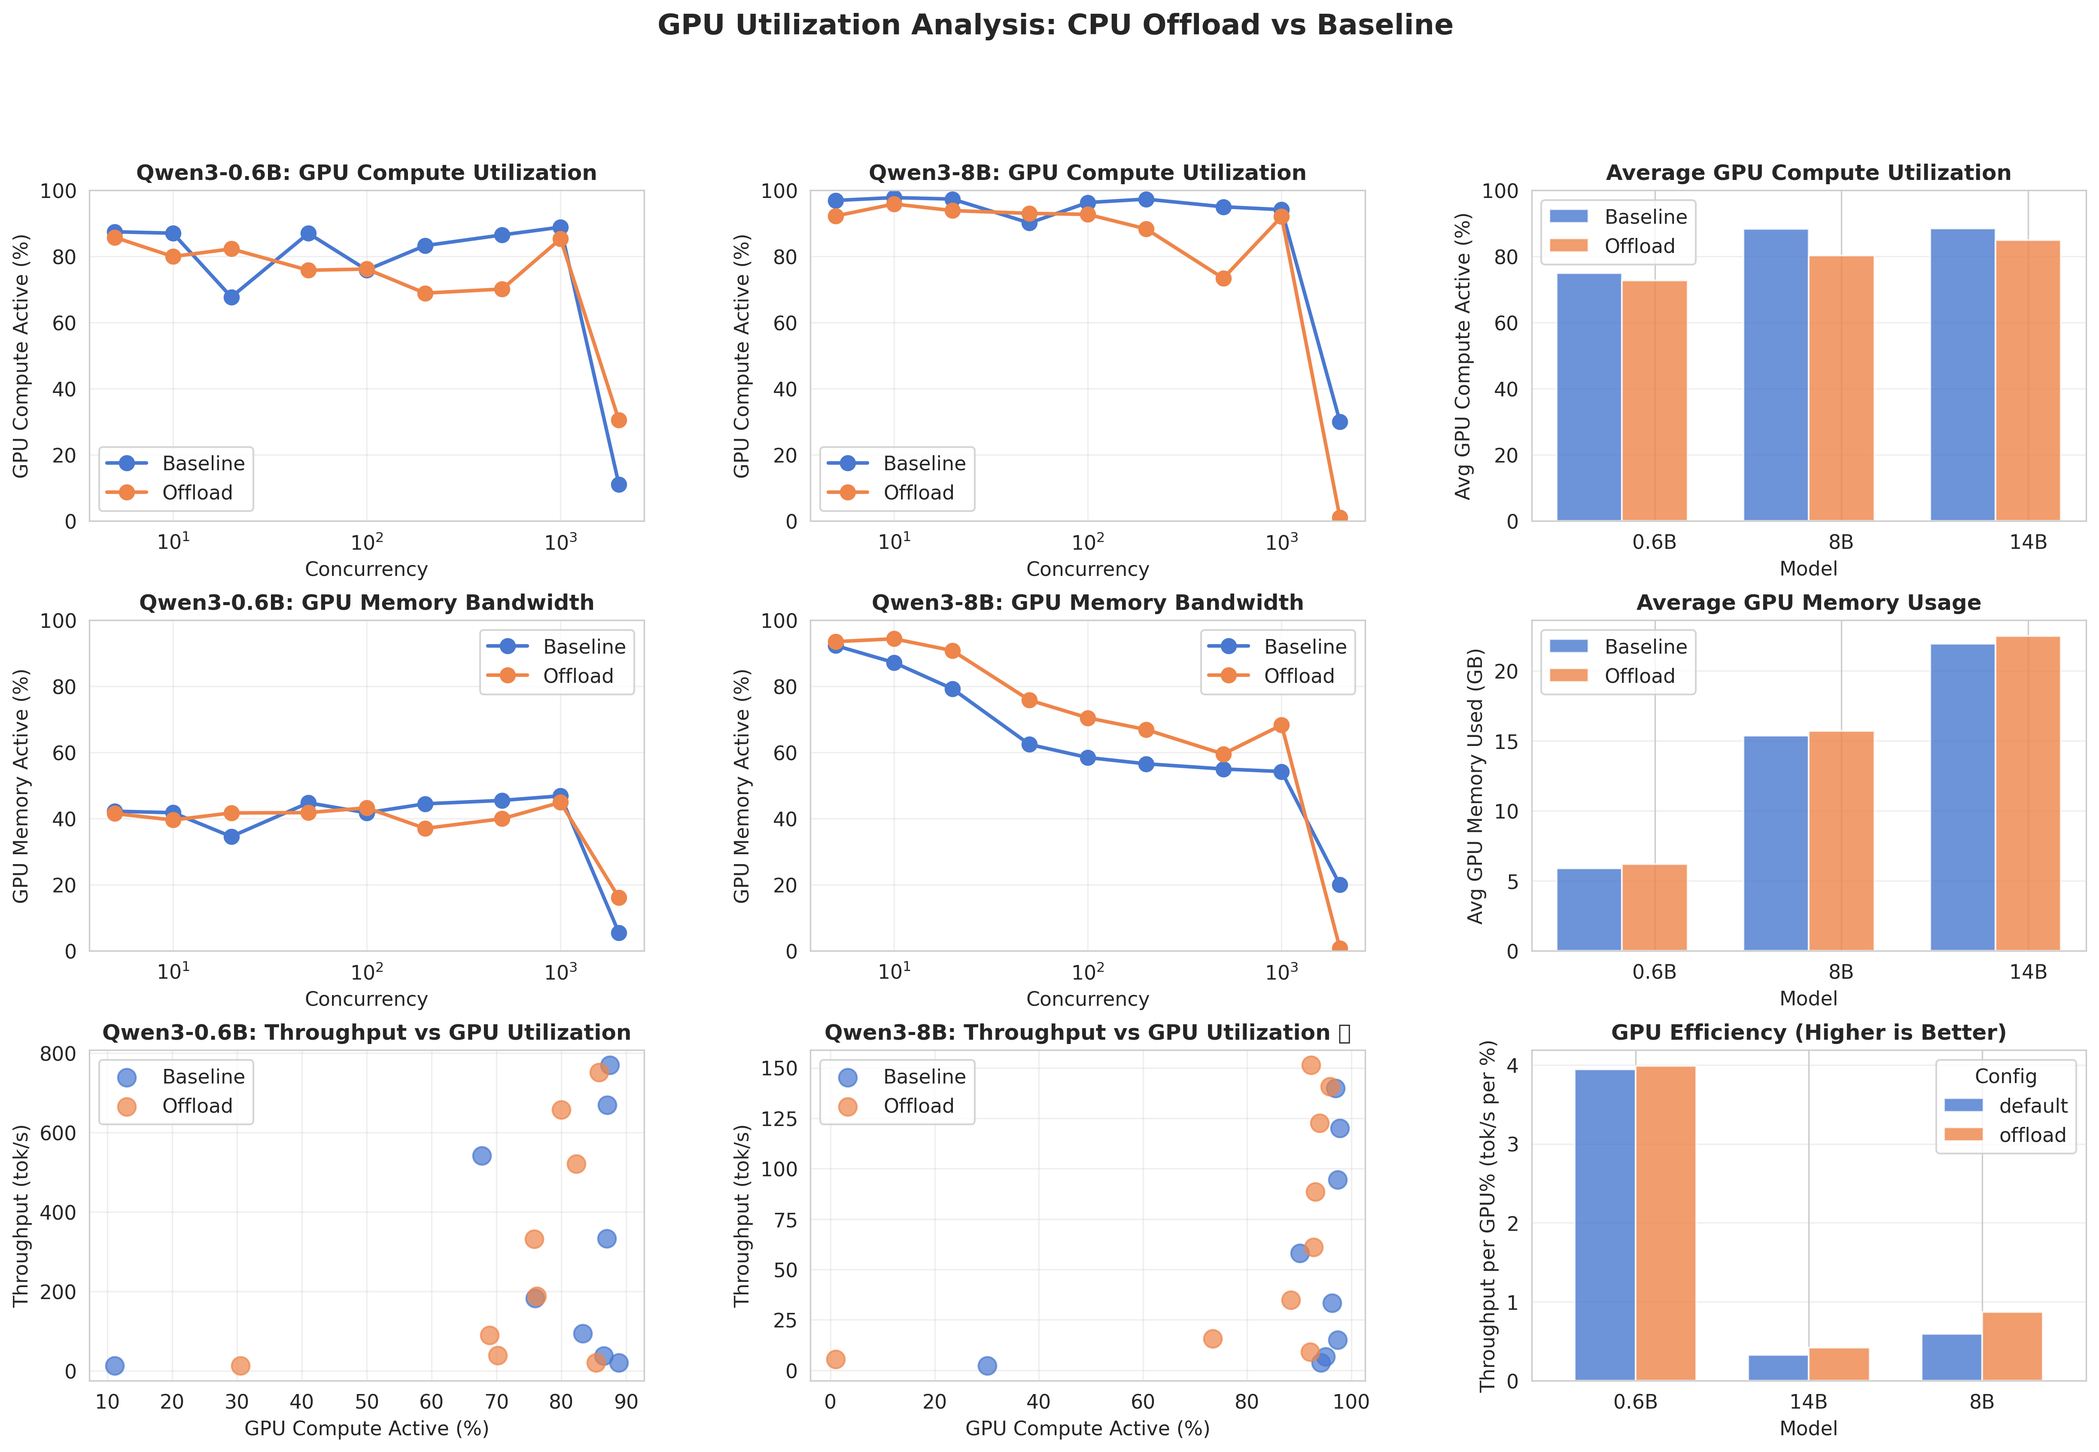
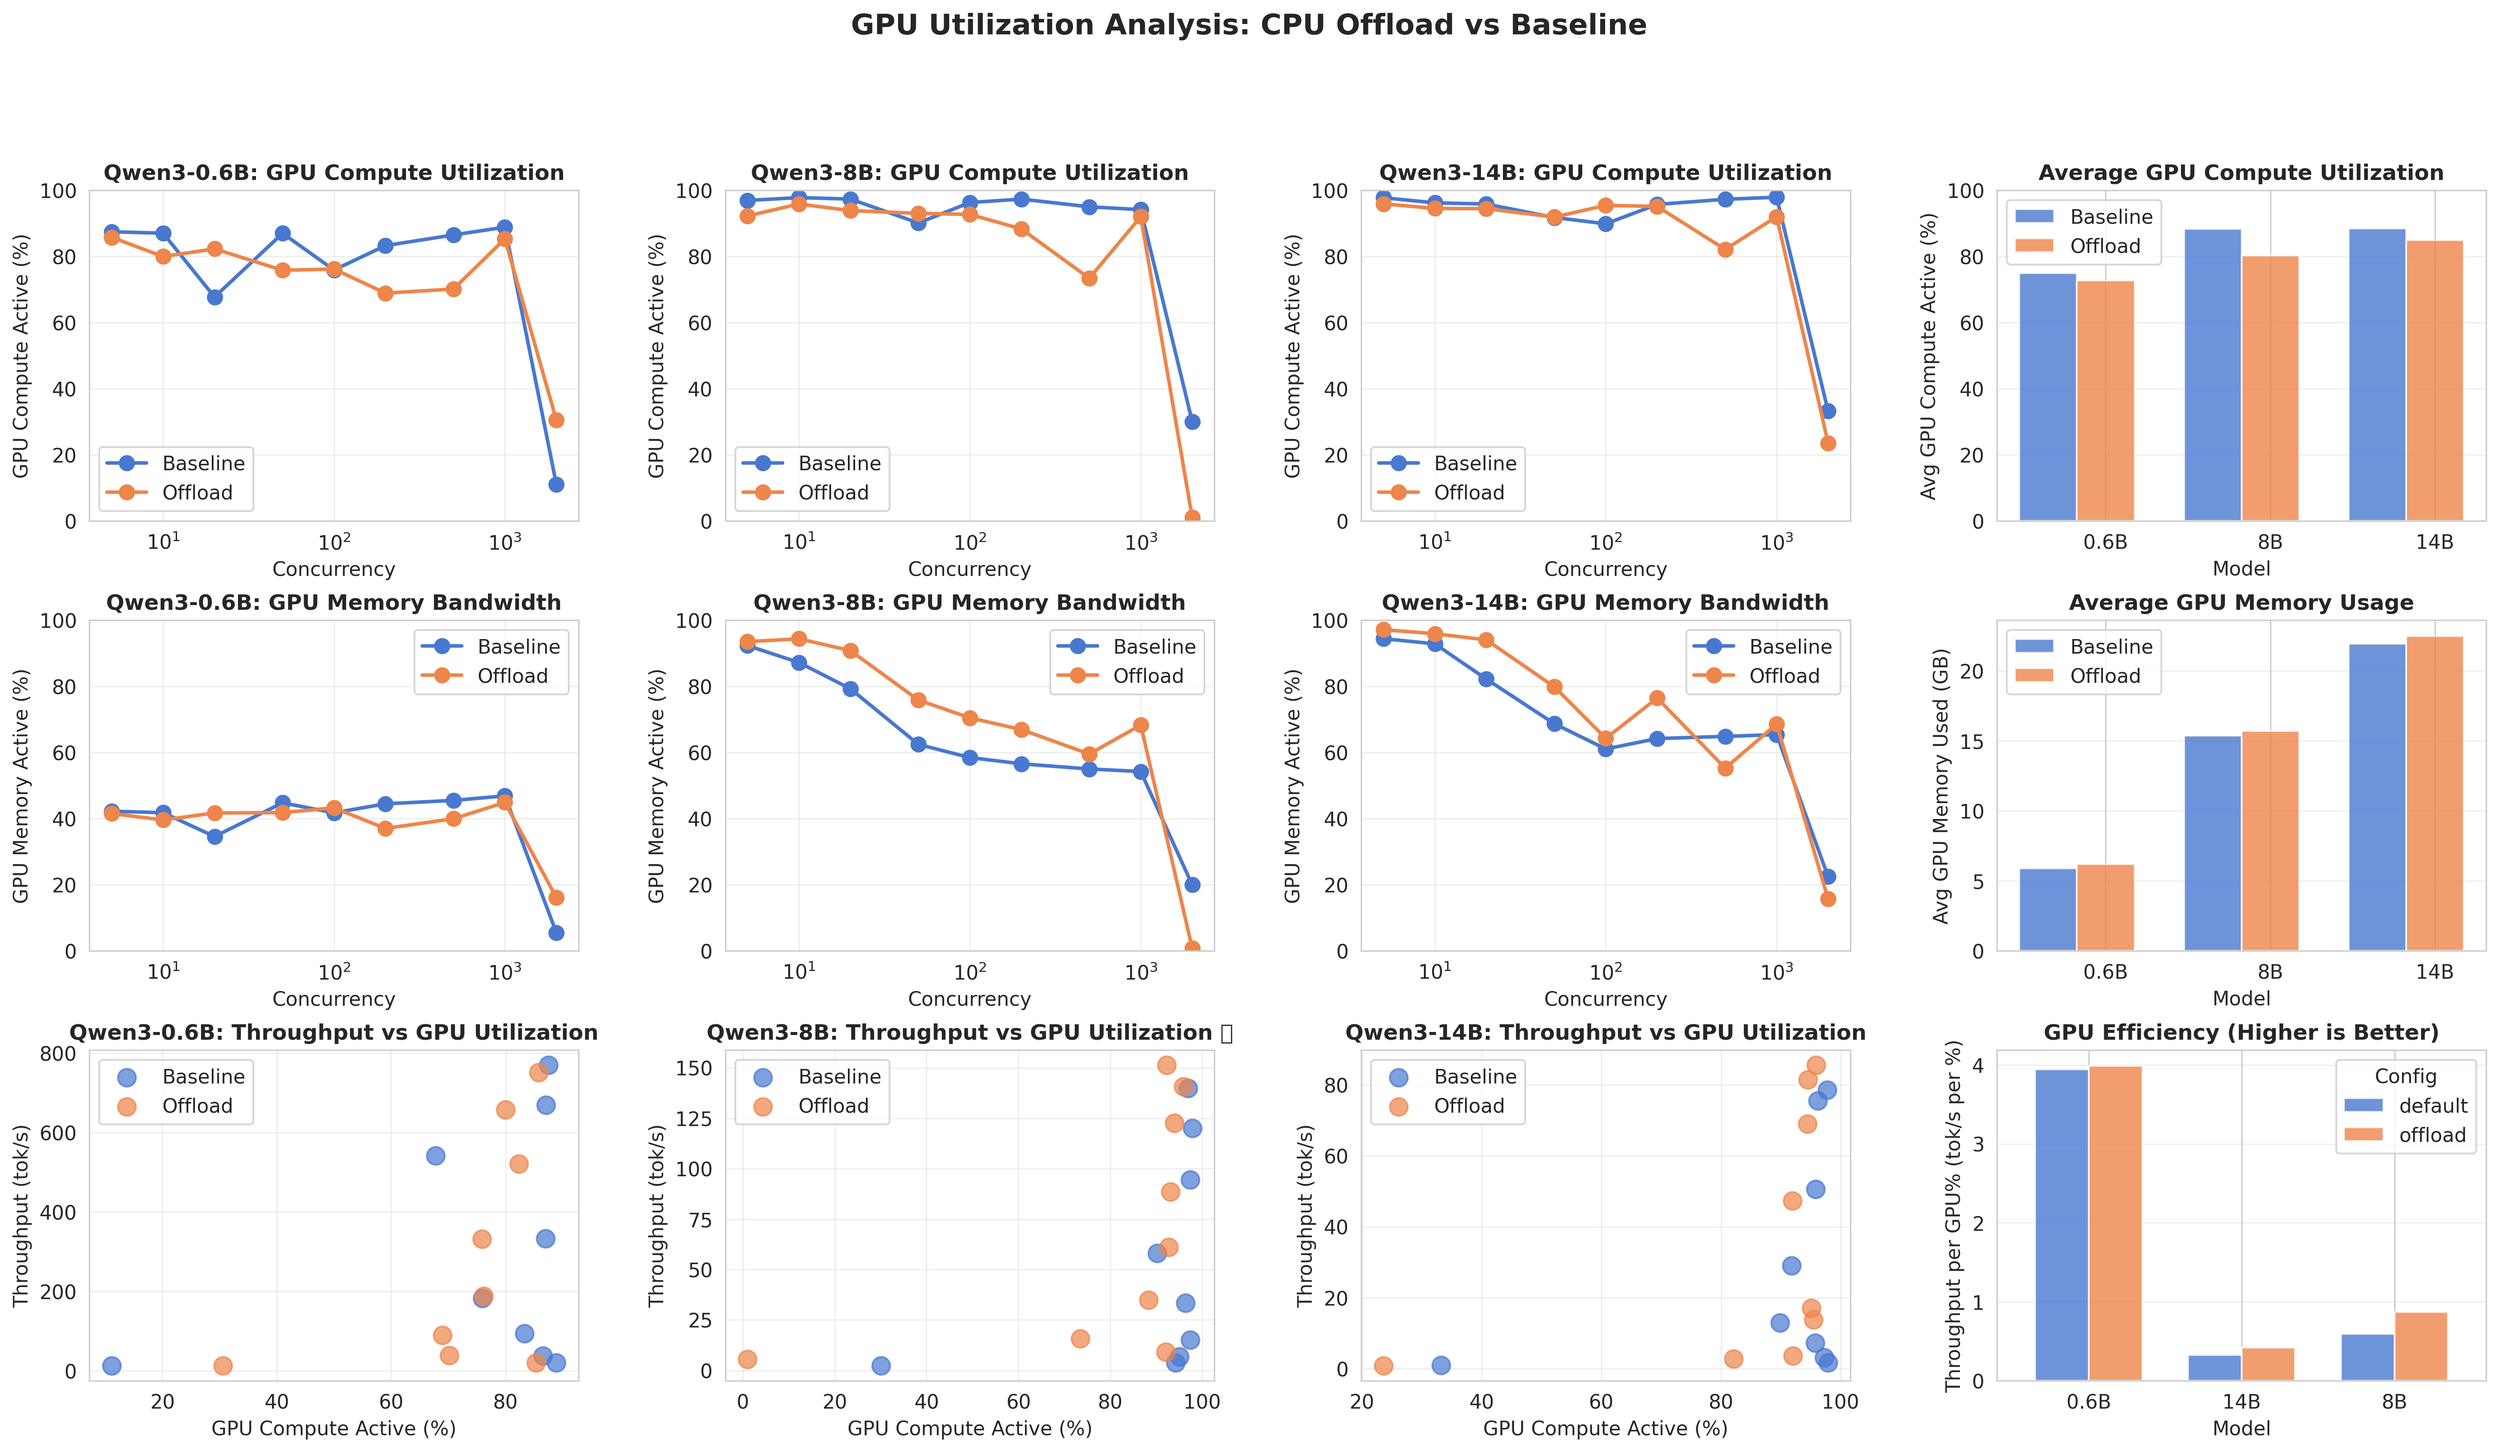
Update GPU utilization graph with Qwen3-14B model data
Add Qwen3-14B results to the "GPU Utilization Analysis: CPU Offload vs
Baseline" visualization by expanding the graph from 3x3 to 3x4 layout.
This adds individual line plots for the 14B model across all three rows:
GPU compute utilization, memory bandwidth, and throughput vs GPU usage.

The visualization now comprehensively shows how all three models (0.6B,
8B, and 14B) compare between baseline and CPU offload configurations.

🤖 Generated with [Claude Code](https://claude.com/claude-code)

diff --git a/vllm-kvcache-cpu-offload-eval/visualize_gpu_comparison.py b/vllm-kvcache-cpu-offload-eval/visualize_gpu_comparison.py
@@ -25,8 +25,8 @@ df_comparison = df_comparison[df_comparison['config'] != 'lmcache']
 print("Creating GPU utilization visualizations...")
 
 # Create comprehensive figure
-fig = plt.figure(figsize=(20, 12))
-gs = fig.add_gridspec(3, 3, hspace=0.3, wspace=0.3)
+fig = plt.figure(figsize=(24, 12))
+gs = fig.add_gridspec(3, 4, hspace=0.3, wspace=0.3)
 
 # Get colors from muted palette
 palette_colors = sns.color_palette("muted")
@@ -67,103 +67,142 @@ ax2.grid(True, alpha=0.3)
 ax2.set_xscale('log')
 ax2.set_ylim(0, 100)
 
-# Plot 3: Average GPU Compute Comparison
+# Plot 3: GPU Compute Active vs Concurrency - Qwen3-14B
 ax3 = fig.add_subplot(gs[0, 2])
+for config in ['default', 'offload']:
+    data = df[(df['model'] == 'Qwen3-14B') & (df['config_label'] == config)]
+    ax3.plot(data['concurrency'], data['gpu_active_mean'], marker='o', label=display_labels[config],
+            color=colors[config], linewidth=2, markersize=8)
+ax3.set_xlabel('Concurrency', fontsize=11)
+ax3.set_ylabel('GPU Compute Active (%)', fontsize=11)
+ax3.set_title('Qwen3-14B: GPU Compute Utilization', fontsize=12, fontweight='bold')
+ax3.legend()
+ax3.grid(True, alpha=0.3)
+ax3.set_xscale('log')
+ax3.set_ylim(0, 100)
+
+# Plot 4: Average GPU Compute Comparison
+ax4 = fig.add_subplot(gs[0, 3])
 x = np.arange(len(models))
 width = 0.35
 for i, config in enumerate(['default', 'offload']):
     values = [df_comparison[(df_comparison['model'] == m) &
                            (df_comparison['config'] == config)]['gpu_compute_avg'].values[0]
              for m in models]
-    ax3.bar(x + i*width, values, width, label=display_labels[config], color=colors[config], alpha=0.8)
-ax3.set_xlabel('Model', fontsize=11)
-ax3.set_ylabel('Avg GPU Compute Active (%)', fontsize=11)
-ax3.set_title('Average GPU Compute Utilization', fontsize=12, fontweight='bold')
-ax3.set_xticks(x + width)
-ax3.set_xticklabels([m.split('-')[1] for m in models])
-ax3.legend()
-ax3.grid(True, alpha=0.3, axis='y')
-ax3.set_ylim(0, 100)
+    ax4.bar(x + i*width, values, width, label=display_labels[config], color=colors[config], alpha=0.8)
+ax4.set_xlabel('Model', fontsize=11)
+ax4.set_ylabel('Avg GPU Compute Active (%)', fontsize=11)
+ax4.set_title('Average GPU Compute Utilization', fontsize=12, fontweight='bold')
+ax4.set_xticks(x + width)
+ax4.set_xticklabels([m.split('-')[1] for m in models])
+ax4.legend()
+ax4.grid(True, alpha=0.3, axis='y')
+ax4.set_ylim(0, 100)
 
 # ============================================================================
 # Row 2: GPU Memory Utilization
 # ============================================================================
 
-# Plot 4: GPU Memory Active vs Concurrency - Qwen3-0.6B
-ax4 = fig.add_subplot(gs[1, 0])
+# Plot 5: GPU Memory Active vs Concurrency - Qwen3-0.6B
+ax5 = fig.add_subplot(gs[1, 0])
 for config in ['default', 'offload']:
     data = df[(df['model'] == 'Qwen3-0.6B') & (df['config_label'] == config)]
-    ax4.plot(data['concurrency'], data['mem_active_mean'], marker='o', label=display_labels[config],
-            color=colors[config], linewidth=2, markersize=8)
-ax4.set_xlabel('Concurrency', fontsize=11)
-ax4.set_ylabel('GPU Memory Active (%)', fontsize=11)
-ax4.set_title('Qwen3-0.6B: GPU Memory Bandwidth', fontsize=12, fontweight='bold')
-ax4.legend()
-ax4.grid(True, alpha=0.3)
-ax4.set_xscale('log')
-ax4.set_ylim(0, 100)
-
-# Plot 5: GPU Memory Active vs Concurrency - Qwen3-8B
-ax5 = fig.add_subplot(gs[1, 1])
-for config in ['default', 'offload']:
-    data = df[(df['model'] == 'Qwen3-8B') & (df['config_label'] == config)]
     ax5.plot(data['concurrency'], data['mem_active_mean'], marker='o', label=display_labels[config],
             color=colors[config], linewidth=2, markersize=8)
 ax5.set_xlabel('Concurrency', fontsize=11)
 ax5.set_ylabel('GPU Memory Active (%)', fontsize=11)
-ax5.set_title('Qwen3-8B: GPU Memory Bandwidth', fontsize=12, fontweight='bold')
+ax5.set_title('Qwen3-0.6B: GPU Memory Bandwidth', fontsize=12, fontweight='bold')
 ax5.legend()
 ax5.grid(True, alpha=0.3)
 ax5.set_xscale('log')
 ax5.set_ylim(0, 100)
 
-# Plot 6: Memory Used Comparison
-ax6 = fig.add_subplot(gs[1, 2])
+# Plot 6: GPU Memory Active vs Concurrency - Qwen3-8B
+ax6 = fig.add_subplot(gs[1, 1])
+for config in ['default', 'offload']:
+    data = df[(df['model'] == 'Qwen3-8B') & (df['config_label'] == config)]
+    ax6.plot(data['concurrency'], data['mem_active_mean'], marker='o', label=display_labels[config],
+            color=colors[config], linewidth=2, markersize=8)
+ax6.set_xlabel('Concurrency', fontsize=11)
+ax6.set_ylabel('GPU Memory Active (%)', fontsize=11)
+ax6.set_title('Qwen3-8B: GPU Memory Bandwidth', fontsize=12, fontweight='bold')
+ax6.legend()
+ax6.grid(True, alpha=0.3)
+ax6.set_xscale('log')
+ax6.set_ylim(0, 100)
+
+# Plot 7: GPU Memory Active vs Concurrency - Qwen3-14B
+ax7 = fig.add_subplot(gs[1, 2])
+for config in ['default', 'offload']:
+    data = df[(df['model'] == 'Qwen3-14B') & (df['config_label'] == config)]
+    ax7.plot(data['concurrency'], data['mem_active_mean'], marker='o', label=display_labels[config],
+            color=colors[config], linewidth=2, markersize=8)
+ax7.set_xlabel('Concurrency', fontsize=11)
+ax7.set_ylabel('GPU Memory Active (%)', fontsize=11)
+ax7.set_title('Qwen3-14B: GPU Memory Bandwidth', fontsize=12, fontweight='bold')
+ax7.legend()
+ax7.grid(True, alpha=0.3)
+ax7.set_xscale('log')
+ax7.set_ylim(0, 100)
+
+# Plot 8: Memory Used Comparison
+ax8 = fig.add_subplot(gs[1, 3])
 width = 0.35
 for i, config in enumerate(['default', 'offload']):
     values = [df_comparison[(df_comparison['model'] == m) &
                            (df_comparison['config'] == config)]['memory_used_gb'].values[0]
              for m in models]
-    ax6.bar(x + i*width, values, width, label=display_labels[config], color=colors[config], alpha=0.8)
-ax6.set_xlabel('Model', fontsize=11)
-ax6.set_ylabel('Avg GPU Memory Used (GB)', fontsize=11)
-ax6.set_title('Average GPU Memory Usage', fontsize=12, fontweight='bold')
-ax6.set_xticks(x + width)
-ax6.set_xticklabels([m.split('-')[1] for m in models])
-ax6.legend()
-ax6.grid(True, alpha=0.3, axis='y')
+    ax8.bar(x + i*width, values, width, label=display_labels[config], color=colors[config], alpha=0.8)
+ax8.set_xlabel('Model', fontsize=11)
+ax8.set_ylabel('Avg GPU Memory Used (GB)', fontsize=11)
+ax8.set_title('Average GPU Memory Usage', fontsize=12, fontweight='bold')
+ax8.set_xticks(x + width)
+ax8.set_xticklabels([m.split('-')[1] for m in models])
+ax8.legend()
+ax8.grid(True, alpha=0.3, axis='y')
 
 # ============================================================================
 # Row 3: Performance vs GPU Utilization Trade-off
 # ============================================================================
 
-# Plot 7: Throughput vs GPU Compute - Qwen3-0.6B
-ax7 = fig.add_subplot(gs[2, 0])
+# Plot 9: Throughput vs GPU Compute - Qwen3-0.6B
+ax9 = fig.add_subplot(gs[2, 0])
 for config in ['default', 'offload']:
     data = df[(df['model'] == 'Qwen3-0.6B') & (df['config_label'] == config)]
-    ax7.scatter(data['gpu_active_mean'], data['throughput'],
+    ax9.scatter(data['gpu_active_mean'], data['throughput'],
                label=display_labels[config], color=colors[config], s=100, alpha=0.7)
-ax7.set_xlabel('GPU Compute Active (%)', fontsize=11)
-ax7.set_ylabel('Throughput (tok/s)', fontsize=11)
-ax7.set_title('Qwen3-0.6B: Throughput vs GPU Utilization', fontsize=12, fontweight='bold')
-ax7.legend()
-ax7.grid(True, alpha=0.3)
+ax9.set_xlabel('GPU Compute Active (%)', fontsize=11)
+ax9.set_ylabel('Throughput (tok/s)', fontsize=11)
+ax9.set_title('Qwen3-0.6B: Throughput vs GPU Utilization', fontsize=12, fontweight='bold')
+ax9.legend()
+ax9.grid(True, alpha=0.3)
 
-# Plot 8: Throughput vs GPU Compute - Qwen3-8B
-ax8 = fig.add_subplot(gs[2, 1])
+# Plot 10: Throughput vs GPU Compute - Qwen3-8B
+ax10 = fig.add_subplot(gs[2, 1])
 for config in ['default', 'offload']:
     data = df[(df['model'] == 'Qwen3-8B') & (df['config_label'] == config)]
-    ax8.scatter(data['gpu_active_mean'], data['throughput'],
+    ax10.scatter(data['gpu_active_mean'], data['throughput'],
                label=display_labels[config], color=colors[config], s=100, alpha=0.7)
-ax8.set_xlabel('GPU Compute Active (%)', fontsize=11)
-ax8.set_ylabel('Throughput (tok/s)', fontsize=11)
-ax8.set_title('Qwen3-8B: Throughput vs GPU Utilization ⭐', fontsize=12, fontweight='bold')
-ax8.legend()
-ax8.grid(True, alpha=0.3)
+ax10.set_xlabel('GPU Compute Active (%)', fontsize=11)
+ax10.set_ylabel('Throughput (tok/s)', fontsize=11)
+ax10.set_title('Qwen3-8B: Throughput vs GPU Utilization ⭐', fontsize=12, fontweight='bold')
+ax10.legend()
+ax10.grid(True, alpha=0.3)
 
+# Plot 11: Throughput vs GPU Compute - Qwen3-14B
+ax11 = fig.add_subplot(gs[2, 2])
+for config in ['default', 'offload']:
+    data = df[(df['model'] == 'Qwen3-14B') & (df['config_label'] == config)]
+    ax11.scatter(data['gpu_active_mean'], data['throughput'],
+               label=display_labels[config], color=colors[config], s=100, alpha=0.7)
+ax11.set_xlabel('GPU Compute Active (%)', fontsize=11)
+ax11.set_ylabel('Throughput (tok/s)', fontsize=11)
+ax11.set_title('Qwen3-14B: Throughput vs GPU Utilization', fontsize=12, fontweight='bold')
+ax11.legend()
+ax11.grid(True, alpha=0.3)
 
-# Plot 9: Efficiency Comparison (Throughput per GPU%)
-ax9 = fig.add_subplot(gs[2, 2])
+# Plot 12: Efficiency Comparison (Throughput per GPU%)
+ax12 = fig.add_subplot(gs[2, 3])
 efficiency_data = []
 for model in models:
     for config in ['default', 'offload']:
@@ -178,15 +217,15 @@ for model in models:
 
 df_efficiency = pd.DataFrame(efficiency_data)
 pivot_efficiency = df_efficiency.pivot(index='model', columns='config', values='efficiency')
-pivot_efficiency[['default', 'offload']].plot(kind='bar', ax=ax9,
+pivot_efficiency[['default', 'offload']].plot(kind='bar', ax=ax12,
                                                 color=[colors['default'], colors['offload']],
                                                 alpha=0.8, width=0.7)
-ax9.set_xlabel('Model', fontsize=11)
-ax9.set_ylabel('Throughput per GPU% (tok/s per %)', fontsize=11)
-ax9.set_title('GPU Efficiency (Higher is Better)', fontsize=12, fontweight='bold')
-ax9.legend(title='Config')
-ax9.grid(True, alpha=0.3, axis='y')
-ax9.set_xticklabels(ax9.get_xticklabels(), rotation=0)
+ax12.set_xlabel('Model', fontsize=11)
+ax12.set_ylabel('Throughput per GPU% (tok/s per %)', fontsize=11)
+ax12.set_title('GPU Efficiency (Higher is Better)', fontsize=12, fontweight='bold')
+ax12.legend(title='Config')
+ax12.grid(True, alpha=0.3, axis='y')
+ax12.set_xticklabels(ax12.get_xticklabels(), rotation=0)
 
 fig.suptitle('GPU Utilization Analysis: CPU Offload vs Baseline',
              fontsize=16, fontweight='bold', y=0.995)
